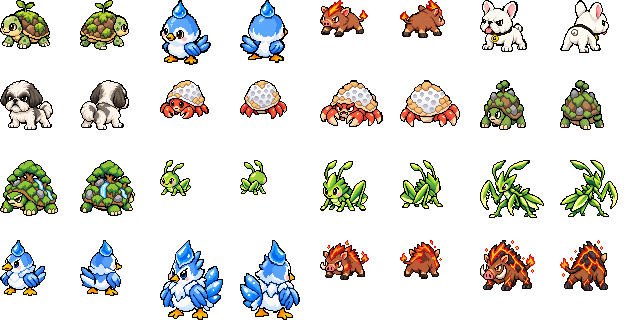
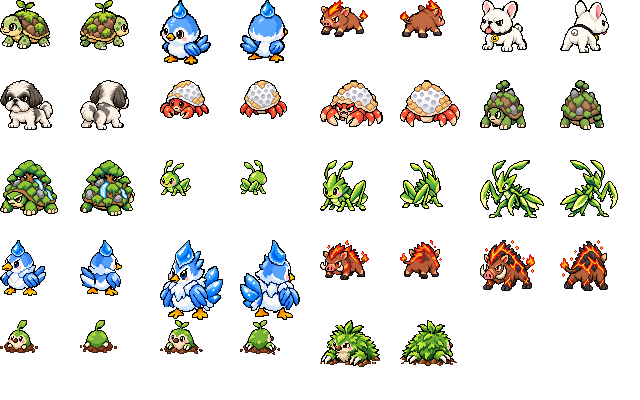
シバモグ（旧コケモグ改名）・ラフモッグ・モグジュオウを追加、ガーデンロードの野生にシバモグ
Claude-Session: https://claude.ai/code/session_018VDSYCPciSbMvR8kKaJDnr

diff --git a/js/dex.js b/js/dex.js
@@ -5,7 +5,7 @@
 // ============================================================
 // 使用するモンスター。null にすると図鑑の全員が使われる。
 //   （2026-09-28：御三家以外はいったん外す。新しいドット絵ができた個体から追加していく）
-const DEX_ENABLED = ['kokegame', 'morigame', 'nushigame', 'hinoshishi', 'shishiburn', 'shishivolke', 'amepiyo', 'amegamo', 'doshagamo', 'bubu', 'mantou', 'bankani', 'oobankani', 'shibatta', 'rafubatta', 'shigebatta'];
+const DEX_ENABLED = ['kokegame', 'morigame', 'nushigame', 'hinoshishi', 'shishiburn', 'shishivolke', 'amepiyo', 'amegamo', 'doshagamo', 'bubu', 'mantou', 'bankani', 'oobankani', 'shibatta', 'rafubatta', 'shigebatta', 'kokemogu', 'rafumoggu', 'mogujuou'];
 
 const DEX = [
   // ---- 御三家 ----
@@ -19,7 +19,7 @@ const DEX = [
   { no: 8, id: 'amegamo',    name: 'アメガモ',   type: 'みず',   stage: 2, evo: ['doshagamo', 28] },
   { no: 9, id: 'doshagamo',  name: 'ドシャガモ', type: 'みず',   stage: 3 },
   // ---- くさ ----
-  { no: 10, id: 'kokemogu',   name: 'コケモグ',     type: 'くさ', stage: 1, evo: ['rafumoggu', 16] },
+  { no: 10, id: 'kokemogu',   name: 'シバモグ',     type: 'くさ', stage: 1, evo: ['rafumoggu', 16] },
   { no: 11, id: 'rafumoggu',  name: 'ラフモッグ',   type: 'くさ', stage: 2, evo: ['mogujuou', 32] },
   { no: 12, id: 'mogujuou',   name: 'モグジュオウ', type: 'くさ', stage: 3 },
   { no: 13, id: 'shibatta',   name: 'シバッタ',     type: 'くさ', stage: 1, evo: ['rafubatta', 15] },

diff --git a/js/data.js b/js/data.js
@@ -219,7 +219,7 @@ const DATA = {
         'WWWWWWWPWWWWWW',
       ],
       encounters: [
-        { id: 'shibatta', level: [3, 5], weight: 5 }, { id: 'bankani', level: [3, 5], weight: 3 },
+        { id: 'shibatta', level: [3, 5], weight: 4 }, { id: 'kokemogu', level: [3, 5], weight: 4 }, { id: 'bankani', level: [3, 5], weight: 3 },
       ],
       events: [
         { x: 7, y: 21, kind: 'warp', to: { map: 'town', x: 9, y: 1, dir: 'down' } },
